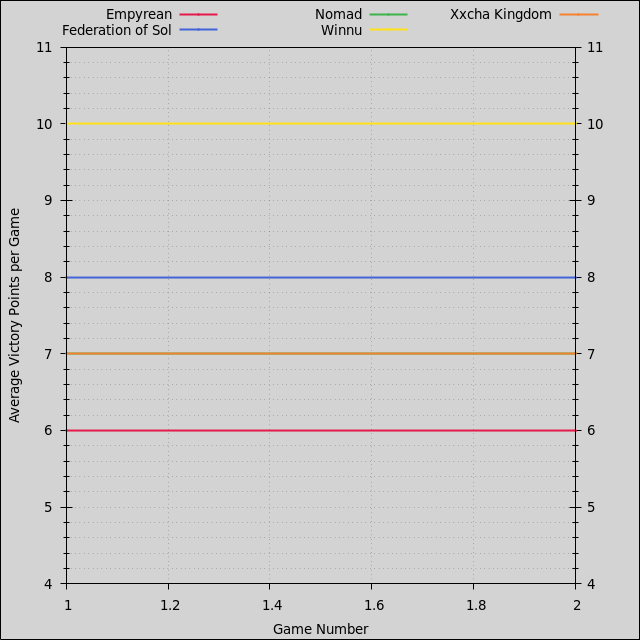
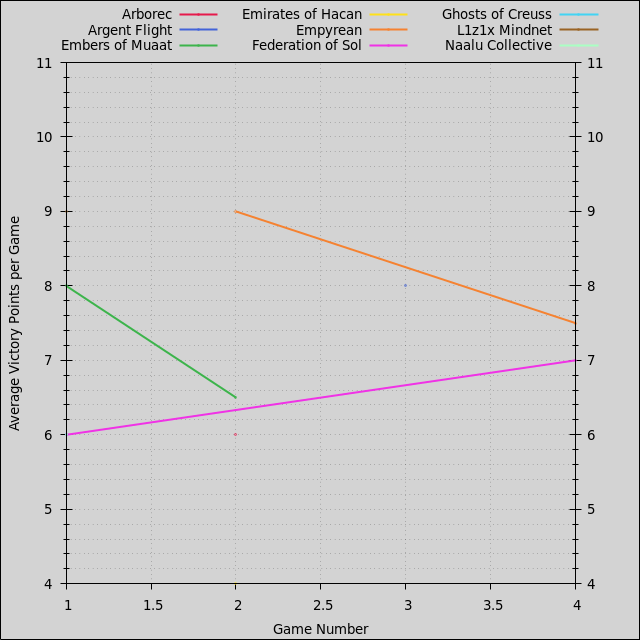
Update leaderboard.

diff --git a/leaderboard/README.md b/leaderboard/README.md
@@ -4,7 +4,7 @@
 - [Games](#games)
 - [License](#license)
 
-Last updated 2024-02-20 01:38 UTC.
+Last updated 2024-02-24 13:51 UTC.
 
 # Players
 
@@ -19,11 +19,15 @@ Last updated 2024-02-20 01:38 UTC.
 
 | **Player** | **Games** | **Curr. Rating** | **Avg Rating** | **Avg Pts.** | **Win Rate** | **1st Place** | **2nd Place** | **3rd Place** |
 | :--- | :---: | :---: | :---: | :---: | :---: | :---: | :---: | :---: |
-| Fred | 2 | 1185 | 1148 | 10.00 | 83% | 100% (2) | 0% (0) | 0% (0) |
-| Jack | 2 | 1103 | 1083 | 8.00 | 0% | 0% (0) | 100% (2) | 0% (0) |
-| Ben | 2 | 1016 | 1013 | 7.00 | 0% | 0% (0) | 0% (0) | 100% (2) |
-| Matt | 2 | 922 | 937 | 7.00 | 0% | 0% (0) | 0% (0) | 0% (0) |
-| Gabor | 2 | 818 | 853 | 6.00 | 0% | 0% (0) | 0% (0) | 0% (0) |
+| Ben | 3 | 1188 | 1180 | 8.67 | 39% | 33% (1) | 33% (1) | 33% (1) |
+| Matt | 4 | 1093 | 1139 | 8.25 | 50% | 50% (2) | 0% (0) | 0% (0) |
+| Jack | 3 | 1162 | 1123 | 8.00 | 0% | 0% (0) | 67% (2) | 33% (1) |
+| James | 2 | 1146 | 1084 | 7.50 | 0% | 0% (0) | 50% (1) | 0% (0) |
+| Fred | 3 | 1114 | 1050 | 7.67 | 28% | 33% (1) | 0% (0) | 33% (1) |
+| Tom | 3 | 928 | 956 | 6.00 | 0% | 0% (0) | 0% (0) | 0% (0) |
+| Will | 2 | 947 | 929 | 6.50 | 0% | 0% (0) | 0% (0) | 50% (1) |
+| Marcus | 1 | 846 | 846 | 6.00 | 0% | 0% (0) | 0% (0) | 0% (0) |
+| Gabor | 3 | 762 | 809 | 4.67 | 0% | 0% (0) | 0% (0) | 0% (0) |
 
 Average victory points per game are adjusted relative to 10-point games, and effective win rates are calculated relative to 6-player games.
 
@@ -64,11 +68,24 @@ Effective win rates are calculated relative to 6-player games.
 
 | **Faction** | **Games** | **Curr. Rating** | **Avg Rating** | **Avg Pts.** | **Win Rate** | **1st Place** | **2nd Place** | **3rd Place** |
 | :--- | :---: | :---: | :---: | :---: | :---: | :---: | :---: | :---: |
-| Winnu | 2 | 1185 | 1148 | 10.00 | 83% | 100% (2) | 0% (0) | 0% (0) |
-| Federation of Sol | 2 | 1103 | 1083 | 8.00 | 0% | 0% (0) | 100% (2) | 0% (0) |
-| Nomad | 2 | 1016 | 1013 | 7.00 | 0% | 0% (0) | 0% (0) | 100% (2) |
-| Xxcha Kingdom | 2 | 922 | 937 | 7.00 | 0% | 0% (0) | 0% (0) | 0% (0) |
-| Empyrean | 2 | 818 | 853 | 6.00 | 0% | 0% (0) | 0% (0) | 0% (0) |
+| Nomad | 3 | 1176 | 1188 | 9.00 | 67% | 67% (2) | 0% (0) | 33% (1) |
+| Yin Brotherhood | 2 | 1130 | 1145 | 8.50 | 58% | 50% (1) | 0% (0) | 50% (1) |
+| Winnu | 1 | 1128 | 1128 | 10.00 | 83% | 100% (1) | 0% (0) | 0% (0) |
+| L1z1x Mindnet | 1 | 1114 | 1114 | 9.00 | 0% | 0% (0) | 100% (1) | 0% (0) |
+| Argent Flight | 1 | 1085 | 1085 | 8.00 | 0% | 0% (0) | 100% (1) | 0% (0) |
+| Naaz-Rokha Alliance | 1 | 1075 | 1075 | 8.00 | 0% | 0% (0) | 0% (0) | 100% (1) |
+| Empyrean | 2 | 978 | 1048 | 7.50 | 0% | 0% (0) | 50% (1) | 0% (0) |
+| Embers of Muaat | 2 | 1008 | 1039 | 6.50 | 0% | 0% (0) | 0% (0) | 50% (1) |
+| Arborec | 1 | 1026 | 1026 | 6.00 | 0% | 0% (0) | 0% (0) | 0% (0) |
+| Ghosts of Creuss | 1 | 1022 | 1022 | 6.00 | 0% | 0% (0) | 0% (0) | 0% (0) |
+| Sardakk N'orr | 1 | 974 | 974 | 7.00 | 0% | 0% (0) | 0% (0) | 0% (0) |
+| Naalu Collective | 1 | 969 | 969 | 6.00 | 0% | 0% (0) | 0% (0) | 0% (0) |
+| Xxcha Kingdom | 1 | 965 | 965 | 7.00 | 0% | 0% (0) | 0% (0) | 0% (0) |
+| Nekro Virus | 1 | 915 | 915 | 5.00 | 0% | 0% (0) | 0% (0) | 0% (0) |
+| Federation of Sol | 2 | 976 | 911 | 7.00 | 0% | 0% (0) | 50% (1) | 0% (0) |
+| Titans of Ul | 1 | 910 | 910 | 6.00 | 0% | 0% (0) | 0% (0) | 0% (0) |
+| Vuil'raith Cabal | 1 | 910 | 910 | 4.00 | 0% | 0% (0) | 0% (0) | 0% (0) |
+| Emirates of Hacan | 1 | 851 | 851 | 4.00 | 0% | 0% (0) | 0% (0) | 0% (0) |
 
 Average victory points per game are adjusted relative to 10-point games, and effective win rates are calculated relative to 6-player games.
 
@@ -78,11 +95,15 @@ Average victory points per game are adjusted relative to 10-point games, and eff
 
 ![Factions Ratings Plot 1](factions/ratings1.png)
 
+![Factions Ratings Plot 2](factions/ratings2.png)
+
 [(Back to Factions)](#factions)
 
 ## Factions: Points
 
 ![Factions Points Plot 1](factions/points1.png)
+
+![Factions Points Plot 2](factions/points2.png)
 
 Average victory points per game are adjusted relative to 10-point games.
 
@@ -91,6 +112,8 @@ Average victory points per game are adjusted relative to 10-point games.
 ## Factions: Win Rates
 
 ![Factions Win Rates Plot 1](factions/winrates1.png)
+
+![Factions Win Rates Plot 2](factions/winrates2.png)
 
 Effective win rates are calculated relative to 6-player games.
 
@@ -106,8 +129,10 @@ Effective win rates are calculated relative to 6-player games.
 
 | **Game** | **Date** | **Mode** | **Points** | **Players** | **Results** |
 | :---: | :---: | :---: | :---: | :---: | :--- |
-| 2 | 2023-12-15 | Free-for-All | 10 | 5 | 14h00m, 1st Fred 10 Winnu, 2nd Jack 8 Federation of Sol, 3rd Ben 7 Nomad, 4th Matt 7 Xxcha Kingdom, 5th Gabor 6 Empyrean |
-| 1 | 2023-12-14 | Free-for-All | 10 | 5 | 14h00m, 1st Fred 10 Winnu, 2nd Jack 8 Federation of Sol, 3rd Ben 7 Nomad, 4th Matt 7 Xxcha Kingdom, 5th Gabor 6 Empyrean |
+| 4 | 2023-12-14 | Free-for-All | 10 | 5 | 14h00m, 1st Fred 10 Winnu, 2nd Jack 8 Federation of Sol, 3rd Ben 7 Nomad, 4th Matt 7 Xxcha Kingdom, 5th Gabor 6 Empyrean |
+| 3 | 2023-10-23 | Free-for-All | 10 | 5 | 7h00m, 1st Matt 10 Nomad, 2nd Jack 8 Argent Flight, 3rd Will 7 Yin Brotherhood, 4th Tom 7 Sardakk N'orr, 5th Gabor 4 Vuil'raith Cabal |
+| 2 | 2023-08-23 | Free-for-All | 10 | 7 | 12h00m, 1st Ben 10 Yin Brotherhood, 2nd James 9 Empyrean, 3rd Jack 8 Naaz-Rokha Alliance, 4th Matt 6 Arborec, 5th Tom 5 Embers of Muaat, 6th Fred 5 Nekro Virus, 7th Gabor 4 Emirates of Hacan |
+| 1 | 2023-04-23 | Free-for-All | 10 | 7 | 12h00m, 1st Matt 10 Nomad, 2nd Ben 9 L1z1x Mindnet, 3rd Fred 8 Embers of Muaat, 4th James 6 Ghosts of Creuss, 5th Tom 6 Naalu Collective, 6th Will 6 Titans of Ul, 7th Marcus 6 Federation of Sol |
 
 [(Back to Top)](#)
 
